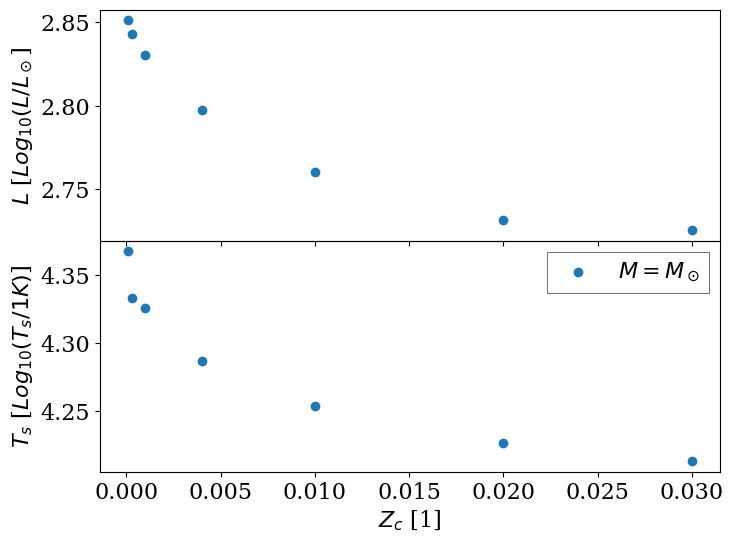
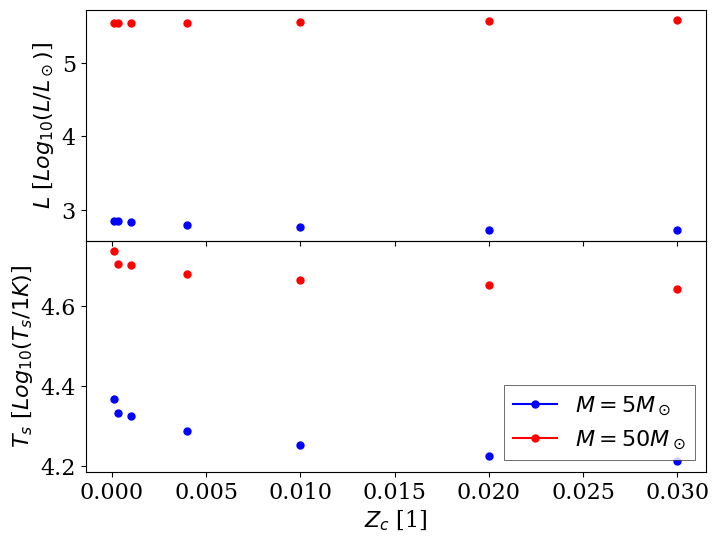
Added more parameters

diff --git a/Python and Data/Plots.py b/Python and Data/Plots.py
@@ -67,8 +67,11 @@ def addPlot(fileDirectory,
             scatter=False,
             flipXaxis=False,
             customX=[-1],
-            legendText="",
-            color="blue"):
+            label="",
+            color="blue",
+            markerSize=5,
+            lineStyle="-",
+            markerStyle="o"):
     """
     Generates the plots using the data files. Specify information and the plots will be drawn.
     A lot of the parameters are optional here.
@@ -87,7 +90,9 @@ def addPlot(fileDirectory,
         - (Boolean) flipXaxis: Flip the x-axis (Useful for HR diagrams).
         - (List[]) customX: Use a custom x-axis (Useful for task 3.2).
         - (String) legendText, Specify the legend text.
-        - (String) Color of the plots.
+        - (String) color: Color of the plots.
+        - (Float) scatterSize: Determines the size of the scatter dots.
+        - (String) linestyle: Line or scatter style.
     Returns:
         - x, y: Values of x and y to be used again.
     """
@@ -257,9 +262,9 @@ def addPlot(fileDirectory,
         if ylog==True:
             ax.set_yscale("log")
         if scatter==True:
-            ax.scatter(x,y,label=legendText,color=color)
+            ax.scatter(x,y,label=label,color=color,marker=markerStyle,s=markerSize)
         else:
-            ax.plot(x,y,label=legendText,color=color)
+            ax.plot(x,y,label=label,color=color,linestyle=lineStyle,marker=markerStyle,markersize=markerSize)
     if detailed==True:
         f = open(full_path+"\\structure_"+str(f'{timeIndex:05}')+".txt", "r")
         data = f.read().split("\n")
@@ -352,68 +357,117 @@ def addPlot(fileDirectory,
         if ylog==True:
             ax.set_yscale("log")
         if scatter==True:
-            ax.scatter(x,y,label=legendText,color=color)
+            ax.scatter(x,y,label=label,color=color)
         else:
-            ax.plot(x,y,label=legendText,color=color)
+            ax.plot(x,y,label=label,color=color)
     return x,y
 # ------------ Add graphs here ------------ #
 ## Example: My folder is called "M=5, Z=0,03". I want to create HR-diagram
-ax = setupPlots(horizontal=1,vertical=1)
-addPlot("M=5, Z=0.03",False,6,4,ax=ax,scatter=False,flipXaxis=True,legendText="$M=5M_\odot$, Z=0.02")
-endPlots("HR, M=5, Z=0.03")
+# ax = setupPlots(horizontal=1,vertical=1)
+# x,y = addPlot("M=5, Z=0.001",False,6,4,ax=ax,scatter=True,flipXaxis=True,label="$M=5M_\odot$, Z=0.02",color="blue",markerSize=5)
+# ax.scatter(x[0],y[0],color="black",label="Start")
+# x,y = addPlot("M=50, Z=0.001",False,6,4,ax=ax,scatter=True,flipXaxis=True,label="$M=5M_\odot$, Z=0.02",color="red",markerSize=5)
+# ax.scatter(x[0],y[0],color="black",label="Start")
+# x,y = addPlot("M=1, Z=0.001",False,6,4,ax=ax,scatter=True,flipXaxis=True,label="$M=5M_\odot$, Z=0.02",color="green",markerSize=5)
+# ax.scatter(x[0],y[0],color="black",label="Start")
+# endPlots("HR, M=5, Z=0.01")
 
 # ## M=constant=5, grid of metallicities
-# Z = [0.0001,0.0003,0.001,0.004,0.01,0.02,0.03]
-# L = ["$M=M_\odot$","","","","","",""]
+Z = [0.0001,0.0003,0.001,0.004,0.01,0.02,0.03]
+L = ["$M=5M_\odot$","","","","","",""]
+L2 = ["$M=50M_\odot$","","","","","",""]
+ax = setupPlots(horizontal=1,vertical=2)
+for i in range(len(Z)):
+    addPlot("M=5, Z="+str(Z[i]),
+            detailed=False,
+            xvalues=30,
+            yvalues=7,
+            ax=ax[0],
+            singelTimeInstance=True,timeIndex=1,
+            xlog=False,
+            scatter=False,
+            customX=Z[i],
+            label=L[i])
+    addPlot("M=5, Z="+str(Z[i]),
+            detailed=False,
+            xvalues=30,
+            yvalues=8,
+            ax=ax[1],
+            singelTimeInstance=True,timeIndex=1,
+            xlog=False,
+            scatter=False,
+            customX=Z[i],
+            label=L[i])
+    addPlot("M=50, Z="+str(Z[i]),
+            detailed=False,
+            xvalues=30,
+            yvalues=7,
+            ax=ax[0],
+            singelTimeInstance=True,timeIndex=1,
+            xlog=False,
+            scatter=False,
+            customX=Z[i],
+            label=L2[i],
+            color="red")
+    addPlot("M=50, Z="+str(Z[i]),
+            detailed=False,
+            xvalues=30,
+            yvalues=8,
+            ax=ax[1],
+            singelTimeInstance=True,timeIndex=1,
+            xlog=False,
+            scatter=False,
+            customX=Z[i],
+            label=L2[i],
+            color="red")
+ax[0].set_xlabel('')
+endPlots("Metallicity vs T_c, rho_c, grid, M=[5,50]")
 
-# ax = setupPlots(horizontal=1,vertical=2)
-# for i in range(len(Z)):
-#     addPlot("M=5, Z="+str(Z[i]),
-#             detailed=False,
-#             xvalues=30,
-#             yvalues=7,
-#             ax=ax[0],
-#             singelTimeInstance=True,timeIndex=1,
-#             xlog=False,
-#             scatter=True,
-#             customX=Z[i],
-#             legendText=L[i])
-#     addPlot("M=5, Z="+str(Z[i]),
-#             detailed=False,
-#             xvalues=30,
-#             yvalues=8,
-#             ax=ax[1],
-#             singelTimeInstance=True,timeIndex=1,
-#             xlog=False,
-#             scatter=True,
-#             customX=Z[i],
-#             legendText=L[i])
-# ax[0].set_xlabel('')
-# endPlots("Metallicity vs T_c, rho_c, grid, M=5")
-
-# ax = setupPlots(horizontal=1,vertical=2)
-# for i in range(len(Z)):
-#     addPlot("M=5, Z="+str(Z[i]),
-#             detailed=False,
-#             xvalues=30,
-#             yvalues=4,
-#             ax=ax[0],
-#             singelTimeInstance=True,timeIndex=1,
-#             xlog=False,
-#             scatter=True,
-#             customX=Z[i],
-#             legendText=L[i])
-#     addPlot("M=5, Z="+str(Z[i]),
-#             detailed=False,
-#             xvalues=30,
-#             yvalues=6,
-#             ax=ax[1],
-#             singelTimeInstance=True,timeIndex=1,
-#             xlog=False,
-#             scatter=True,
-#             customX=Z[i],
-#             legendText=L[i])
-# ax[0].set_xlabel('')
-# endPlots("Metallicity vs L, T_s, grid, M=5")
+ax = setupPlots(horizontal=1,vertical=2)
+for i in range(len(Z)):
+    addPlot("M=5, Z="+str(Z[i]),
+            detailed=False,
+            xvalues=30,
+            yvalues=4,
+            ax=ax[0],
+            singelTimeInstance=True,timeIndex=1,
+            xlog=False,
+            scatter=False,
+            customX=Z[i],
+            label=L[i])
+    addPlot("M=5, Z="+str(Z[i]),
+            detailed=False,
+            xvalues=30,
+            yvalues=6,
+            ax=ax[1],
+            singelTimeInstance=True,timeIndex=1,
+            xlog=False,
+            scatter=False,
+            customX=Z[i],
+            label=L[i])
+    addPlot("M=50, Z="+str(Z[i]),
+            detailed=False,
+            xvalues=30,
+            yvalues=4,
+            ax=ax[0],
+            singelTimeInstance=True,timeIndex=1,
+            xlog=False,
+            scatter=False,
+            customX=Z[i],
+            label=L2[i],
+            color="red")
+    addPlot("M=50, Z="+str(Z[i]),
+            detailed=False,
+            xvalues=30,
+            yvalues=6,
+            ax=ax[1],
+            singelTimeInstance=True,timeIndex=1,
+            ylog=False,
+            scatter=False,
+            customX=Z[i],
+            label=L2[i],
+            color="red")
+ax[0].set_xlabel('')
+endPlots("Metallicity vs L, T_s, grid, M=5")
 
 # ------------------------ #
